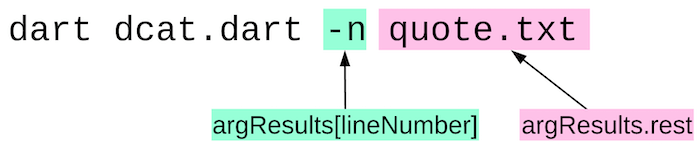
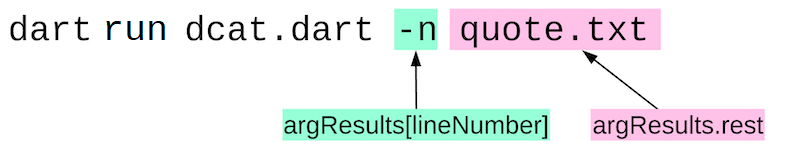
Change Server/cmdline Tutorial to use new dart tool

Changed region(s): [[0.0, 0.0548, 1.0, 0.9863], [0.78, 0.5205, 0.81, 0.6301]]

diff --git a/src/_tutorials/server/cmdline.md b/src/_tutorials/server/cmdline.md
@@ -47,7 +47,7 @@ command-line arguments, files and directories, and more.
 
 ## Running an app with the standalone Dart VM
 
-To run a command-line app, you need the Dart VM (`dart`),
+To run a command-line app, you need the Dart command (`dart run`),
 which comes when you [install the Dart SDK](/get-dart).
 
 {{site.alert.important}}
@@ -56,8 +56,7 @@ which comes when you [install the Dart SDK](/get-dart).
   and how you installed the SDK.
   You can find `dart` in _&lt;sdk-install-dir&gt;_/bin.
   By putting this directory in your PATH
-  you can refer to the `dart` command and other commands, such as
-  [dartanalyzer](/tools/dartanalyzer), by name.
+  you can refer to the `dart` command by name.
 {{site.alert.end}}
 
 Let's run a small program.
@@ -74,7 +73,7 @@ Let's run a small program.
  2. In the directory that contains the file you just created, run the program:
 
     ```terminal
-    $ dart helloworld.dart
+    $ dart run helloworld.dart
     Hello, World!
     ```
 
@@ -96,7 +95,7 @@ brief description of key app features, click the highlighted code below.
 
 You might notice that dcat depends on a package named **args**.
 To get the args package, use the
-[pub package manager](/guides/packages).
+[dart pub package manager](/guides/packages).
 
 A real app has tests, license files, and so on, in a file hierarchy
 such as the one in the [Dart command-line app template.][]
@@ -119,10 +118,10 @@ But for this first app, let's do the minimum necessary to get the code to run:
    dependencies:
      args: ^1.5.0
    ```
-4. Still in the `dcat` directory, run `pub get` to get the args package:
+4. Still in the `dcat` directory, run `dart pub get` to get the args package:
 
    ```terminal
-   $ pub get
+   $ dart pub get
    Resolving dependencies... 
    + args 1.5.2
    Changed 1 dependency!
@@ -142,7 +141,7 @@ like `pubspec.yaml` or `quote.txt`
 ([downloadable file]({{site.repo.this}}/blob/master/examples/misc/test_data/quote.txt?raw=1)):
 
 ```terminal
-$ dart dcat.dart -n quote.txt
+$ dart run dcat.dart -n quote.txt
 1 Be yourself. Everyone else is taken. -Oscar Wilde
 2 Don't cry because it's over, smile because it happened. -Dr. Seuss
 3 You only live once, but if you do it right, once is enough. -Mae West
@@ -328,7 +327,7 @@ the user types in lines of text and the program copies them to stdout.
 The user signals the end of input by pressing `Control`+`D`.
 
 ```terminal
-$ dart dcat.dart
+$ dart run dcat.dart
 The quick brown fox jumps over the lazy dog.
 The quick brown fox jumps over the lazy dog.
 ```
